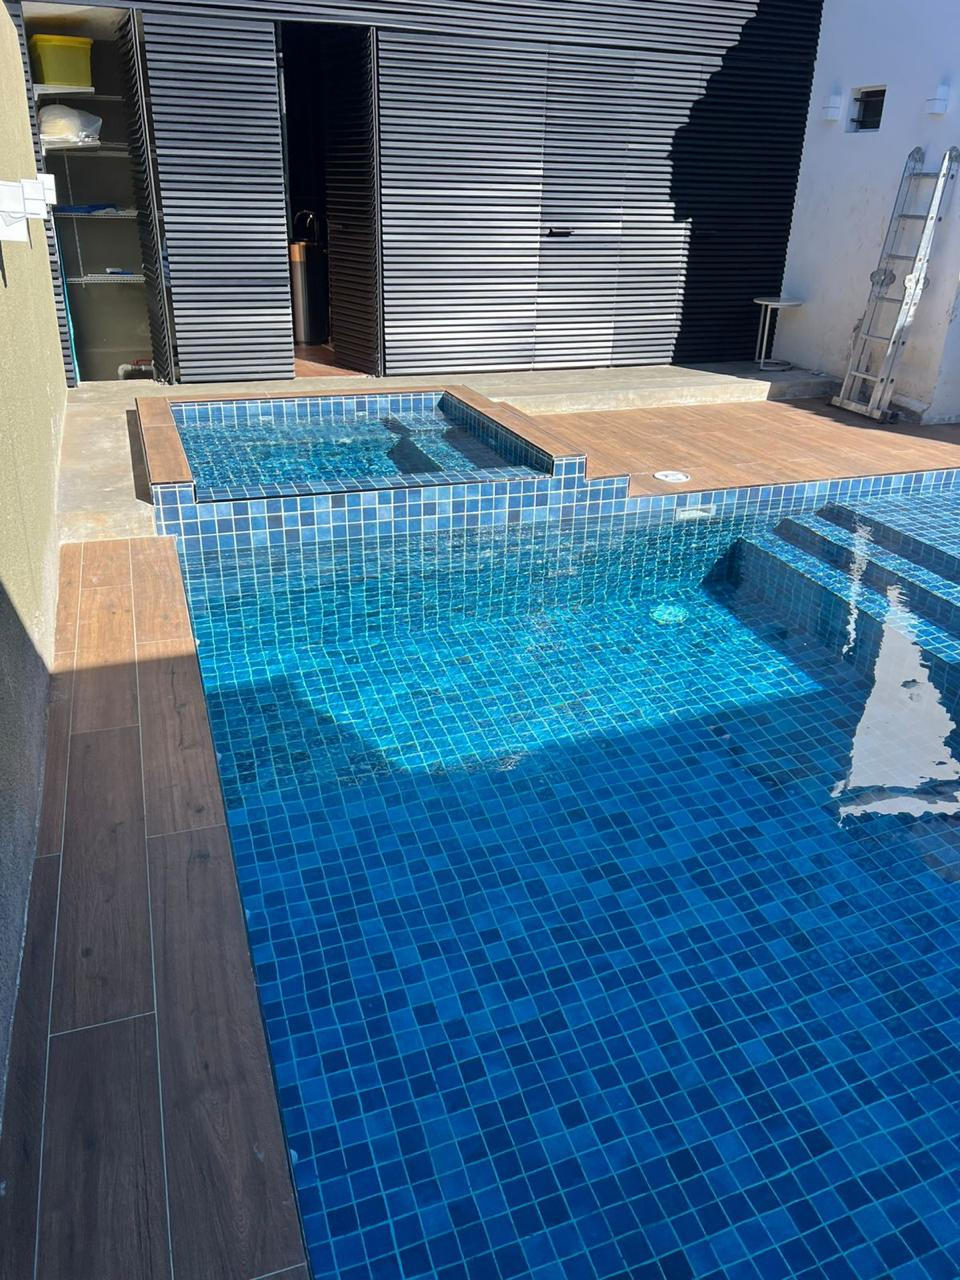
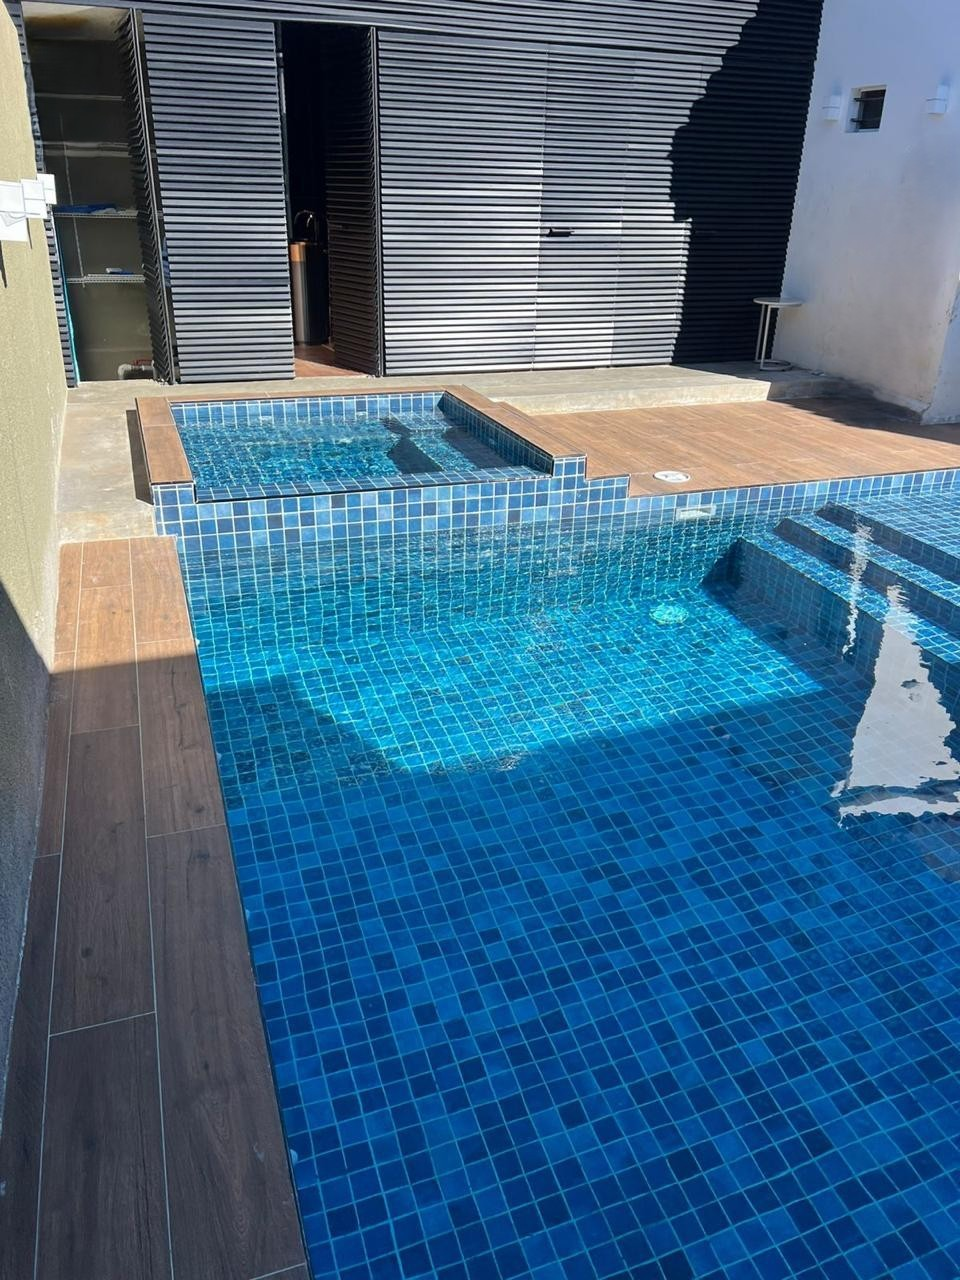
photos edited

Changed region(s): [[0.875, 0.0938, 1.0, 0.3438], [0.0312, 0.0, 0.125, 0.125]]

diff --git a/src/components/Projects.jsx b/src/components/Projects.jsx
@@ -129,8 +129,11 @@ import porticoFontana3 from "../assets/PORTICO LA FONTANA/portico-fontana-3.jpeg
 import porticoFontana4 from "../assets/PORTICO LA FONTANA/portico-fontana-4.jpeg";
 
 /* ─── PISCINA CIUDAD JARDIN ─── */
-import ciudadJardin3 from "../assets/PISCINA CIUDAD JARDIN/piscina-ciudad-jardin-3.jpeg";
-import ciudadJardin4 from "../assets/PISCINA CIUDAD JARDIN/piscina-ciudad-jardin-4.jpg";
+// import ciudadJardin3 from "../assets/PISCINA CIUDAD JARDIN/piscina-ciudad-jardin-3.jpeg";
+import ciudadJardin5 from "../assets/PISCINA CIUDAD JARDIN/piscina-ciudad-jardin-5.jpeg";
+import ciudadJardin6 from "../assets/PISCINA CIUDAD JARDIN/piscina-ciudad-jardin-6.jpeg";
+import ciudadJardin7 from "../assets/PISCINA CIUDAD JARDIN/piscina-ciudad-jardin-7.jpeg";
+// import ciudadJardin4 from "../assets/PISCINA CIUDAD JARDIN/piscina-ciudad-jardin-4.jpeg";
 import ciudadJardinConstruccion3 from "../assets/PISCINA CIUDAD JARDIN/piscina-ciudad-jardin-construccion-3.png";
 import ciudadJardinConstruccion4 from "../assets/PISCINA CIUDAD JARDIN/piscina-ciudad-jardin-construccion-4.png";
 import ciudadJardinConstruccion7 from "../assets/PISCINA CIUDAD JARDIN/piscina-ciudad-jardin-construccion-7.jpeg";
@@ -505,7 +508,7 @@ const projects = [
 	{
 		id: 15,
 		status: "terminado",
-		title: "Vivienda Salvatierra",
+		title: "Vivienda J.C.S.",
 		category: "Residencial",
 		image: salvatierraFrontal2,
 		gallery: [
@@ -566,7 +569,7 @@ const projects = [
 	{
 		id: 18,
 		status: "terminado",
-		title: "Laguna Brava",
+		title: "Hacienda Flia P.G.",
 		category: "Residencial",
 		image: lagunaBrava9,
 		gallery: [
@@ -627,18 +630,21 @@ const projects = [
 	},
 	{
 		id: 21,
-		status: "en_desarrollo",
+		status: "terminado",
 		title: "Piscina Ciudad Jardín",
 		category: "Áreas Sociales",
-		image: ciudadJardin3,
+		image: ciudadJardin6,
 		gallery: [
-			ciudadJardin3,
-			ciudadJardin4,
-			ciudadJardinConstruccion3,
-			ciudadJardinConstruccion4,
-			ciudadJardinConstruccion7,
-			ciudadJardinConstruccion8,
-			ciudadJardinConstruccion9,
+			ciudadJardin5,
+			ciudadJardin6,
+			ciudadJardin7,
+			// ciudadJardin3,
+			// ciudadJardin4,
+			// ciudadJardinConstruccion3,
+			// ciudadJardinConstruccion4,
+			// ciudadJardinConstruccion7,
+			// ciudadJardinConstruccion8,
+			// ciudadJardinConstruccion9,
 			ciudadJardinPlano1,
 		],
 		desc: "Piscina comunitaria para urbanización Ciudad Jardín, con diseño moderno y proceso de construcción supervisado con altos estándares.",